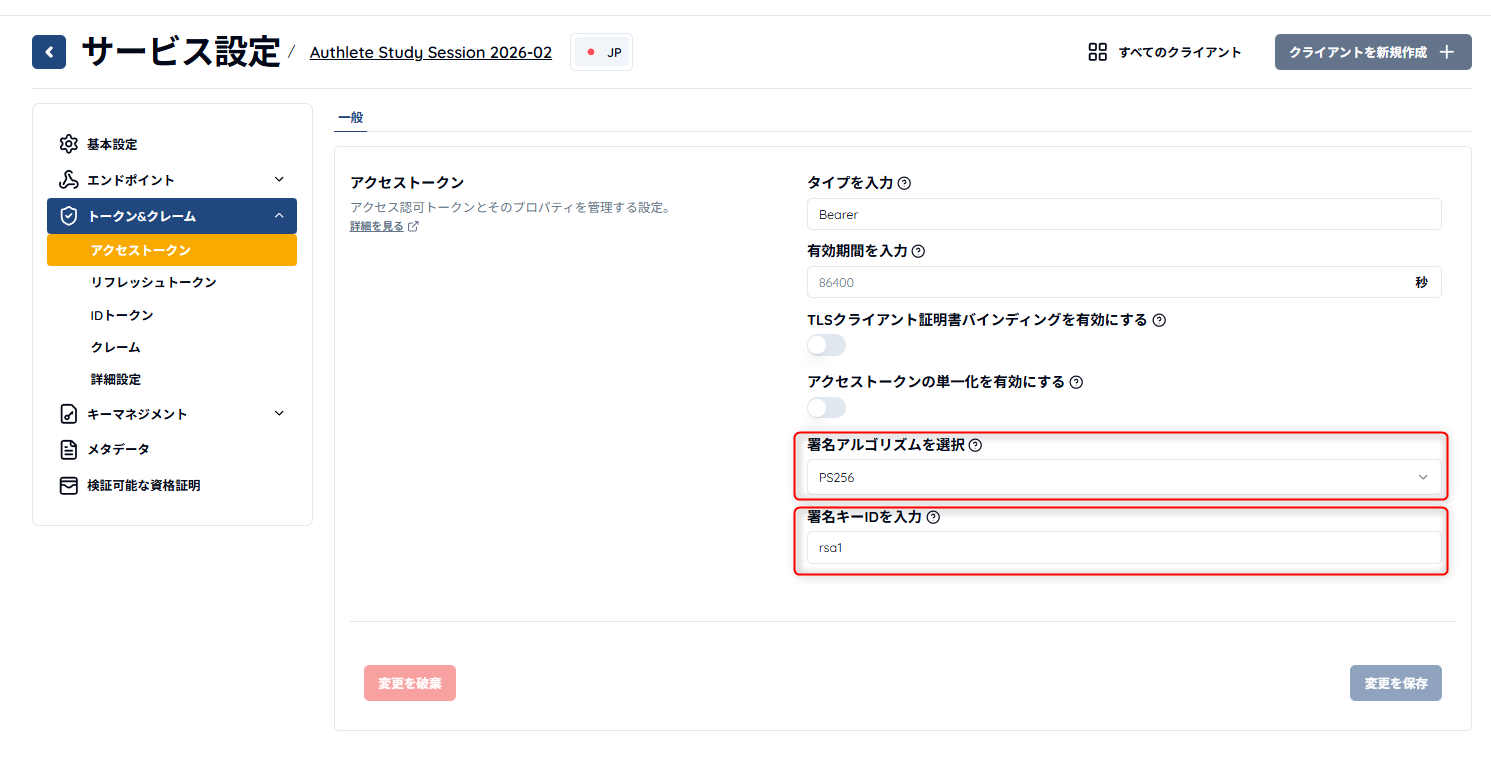
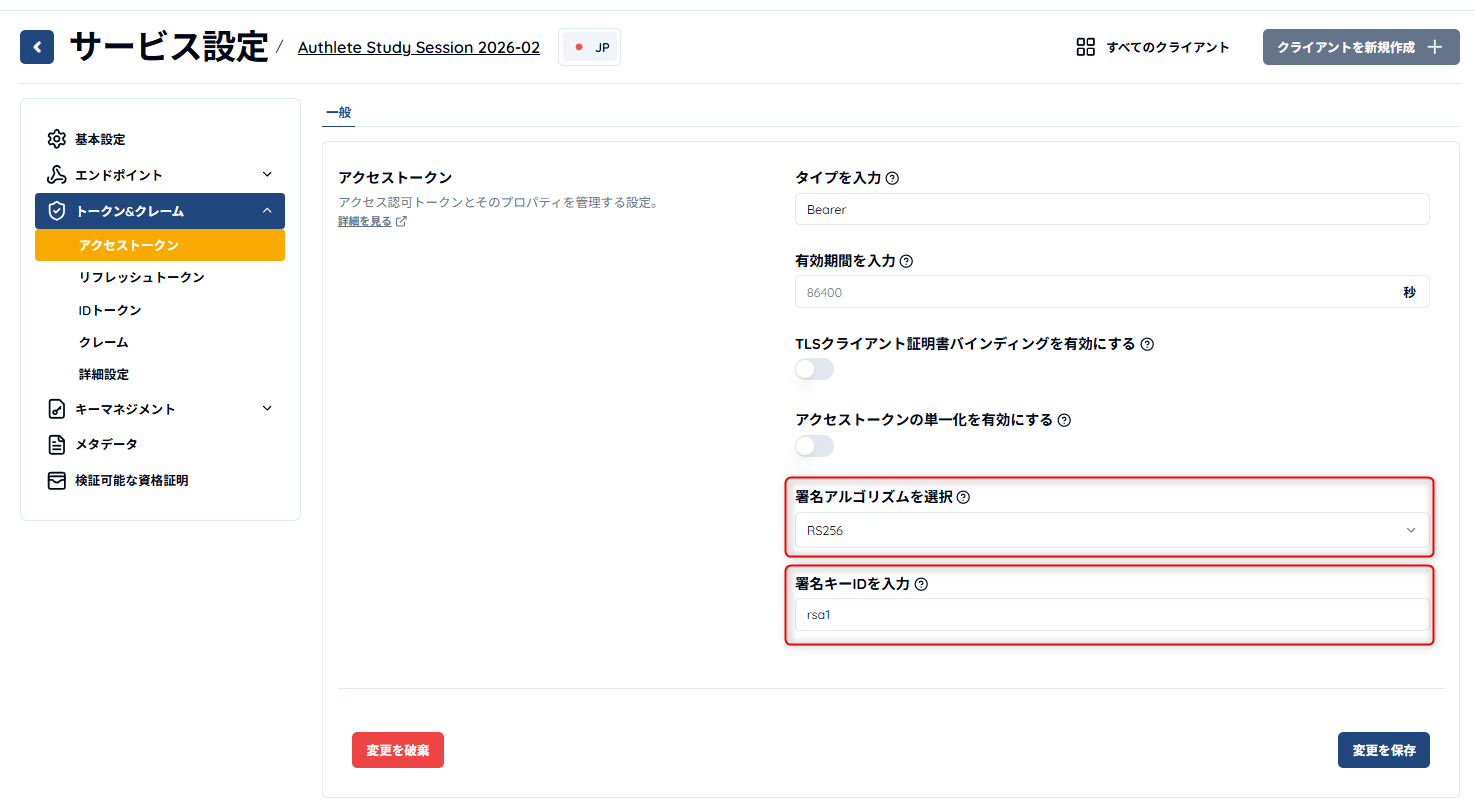
fix: use rs256 alg for signing id_token and access_token by default

diff --git a/docs/01-setup-authlete.md b/docs/01-setup-authlete.md
@@ -64,7 +64,7 @@ AUTHLETE_SERVICE_ACCESSTOKEN=CCVfO91zGcjgUkatssaNwSsGG-NYTbFlbO8ORSEkFLQ # Repla
 
 - Key Size: 2048
 - Key Use: Signature
-- Algorithm: PS256
+- Algorithm: RS256
 - Key ID: Specify 
     - Key ID の値: rsa1
 
@@ -74,7 +74,7 @@ AUTHLETE_SERVICE_ACCESSTOKEN=CCVfO91zGcjgUkatssaNwSsGG-NYTbFlbO8ORSEkFLQ # Repla
 
 ![set up jwk set content in console](../img/01-setup-authlete/jwk-set.png)
 
-同様に [トークン&クレーム] > [アクセストークン] > [一般] の `署名アルゴリズムを選択` を `PS256` に、`署名キーIDを入力` に `rsa1` を設定し、変更を保存をクリックします。 
+同様に [トークン&クレーム] > [アクセストークン] > [一般] の `署名アルゴリズムを選択` を `RS256` に、`署名キーIDを入力` に `rsa1` を設定し、変更を保存をクリックします。 
 
 ![configure the access token signing key](../img/01-setup-authlete/access-token-signing-key.png)
 
@@ -102,7 +102,7 @@ Authlete のサービス設定はこれで完了です。
 
 ![add redirect uri](../img/01-setup-authlete/redirect-uri.png)
 
-4. クライアント設定の [トークンとクレーム] > [IDトークン] > [IDトークン署名アルゴリズム] を `PS256` に設定し、変更を保存をクリックします。 
+4. クライアント設定の [トークンとクレーム] > [IDトークン] > [IDトークン署名アルゴリズム] を `RS256` に設定し、変更を保存をクリックします。 
 
 クライアントの設定は以上です。
 

diff --git a/docs-en/01-setup-authlete.md b/docs-en/01-setup-authlete.md
@@ -65,7 +65,7 @@ Set the JWK (JSON Web Key) for signing access tokens and ID tokens. First, visit
 
 - Key Size: 2048
 - Key Use: Signature
-- Algorithm: PS256
+- Algorithm: RS256
 - Key ID: Specify
     - Key ID value: rsa1
 
@@ -75,7 +75,7 @@ Copy the Public and Private Keypair Set from the middle of the page and paste it
 
 ![set up jwk set content in console](../img/01-setup-authlete/jwk-set.png)
 
-Likewise, in [Token & Claims] > [Access Token] > [General], set `Select Signing Algorithm` to `PS256` and `Signing Key ID` to `rsa1`, then click Save Changes.
+Likewise, in [Token & Claims] > [Access Token] > [General], set `Select Signing Algorithm` to `RS256` and `Signing Key ID` to `rsa1`, then click Save Changes.
 
 ![configure the access token signing key](../img/01-setup-authlete/access-token-signing-key.png)
 
@@ -103,7 +103,7 @@ Register a sample client for verifying the authorization server behavior.
 
 ![add redirect uri](../img/01-setup-authlete/redirect-uri.png)
 
-4. In the client settings under [Token & Claims] > [ID Token] > [ID Token Signing Algorithm], set `PS256` and click Save Changes.
+4. In the client settings under [Token & Claims] > [ID Token] > [ID Token Signing Algorithm], set `RS256` and click Save Changes.
 
 Client setup is complete.
 
